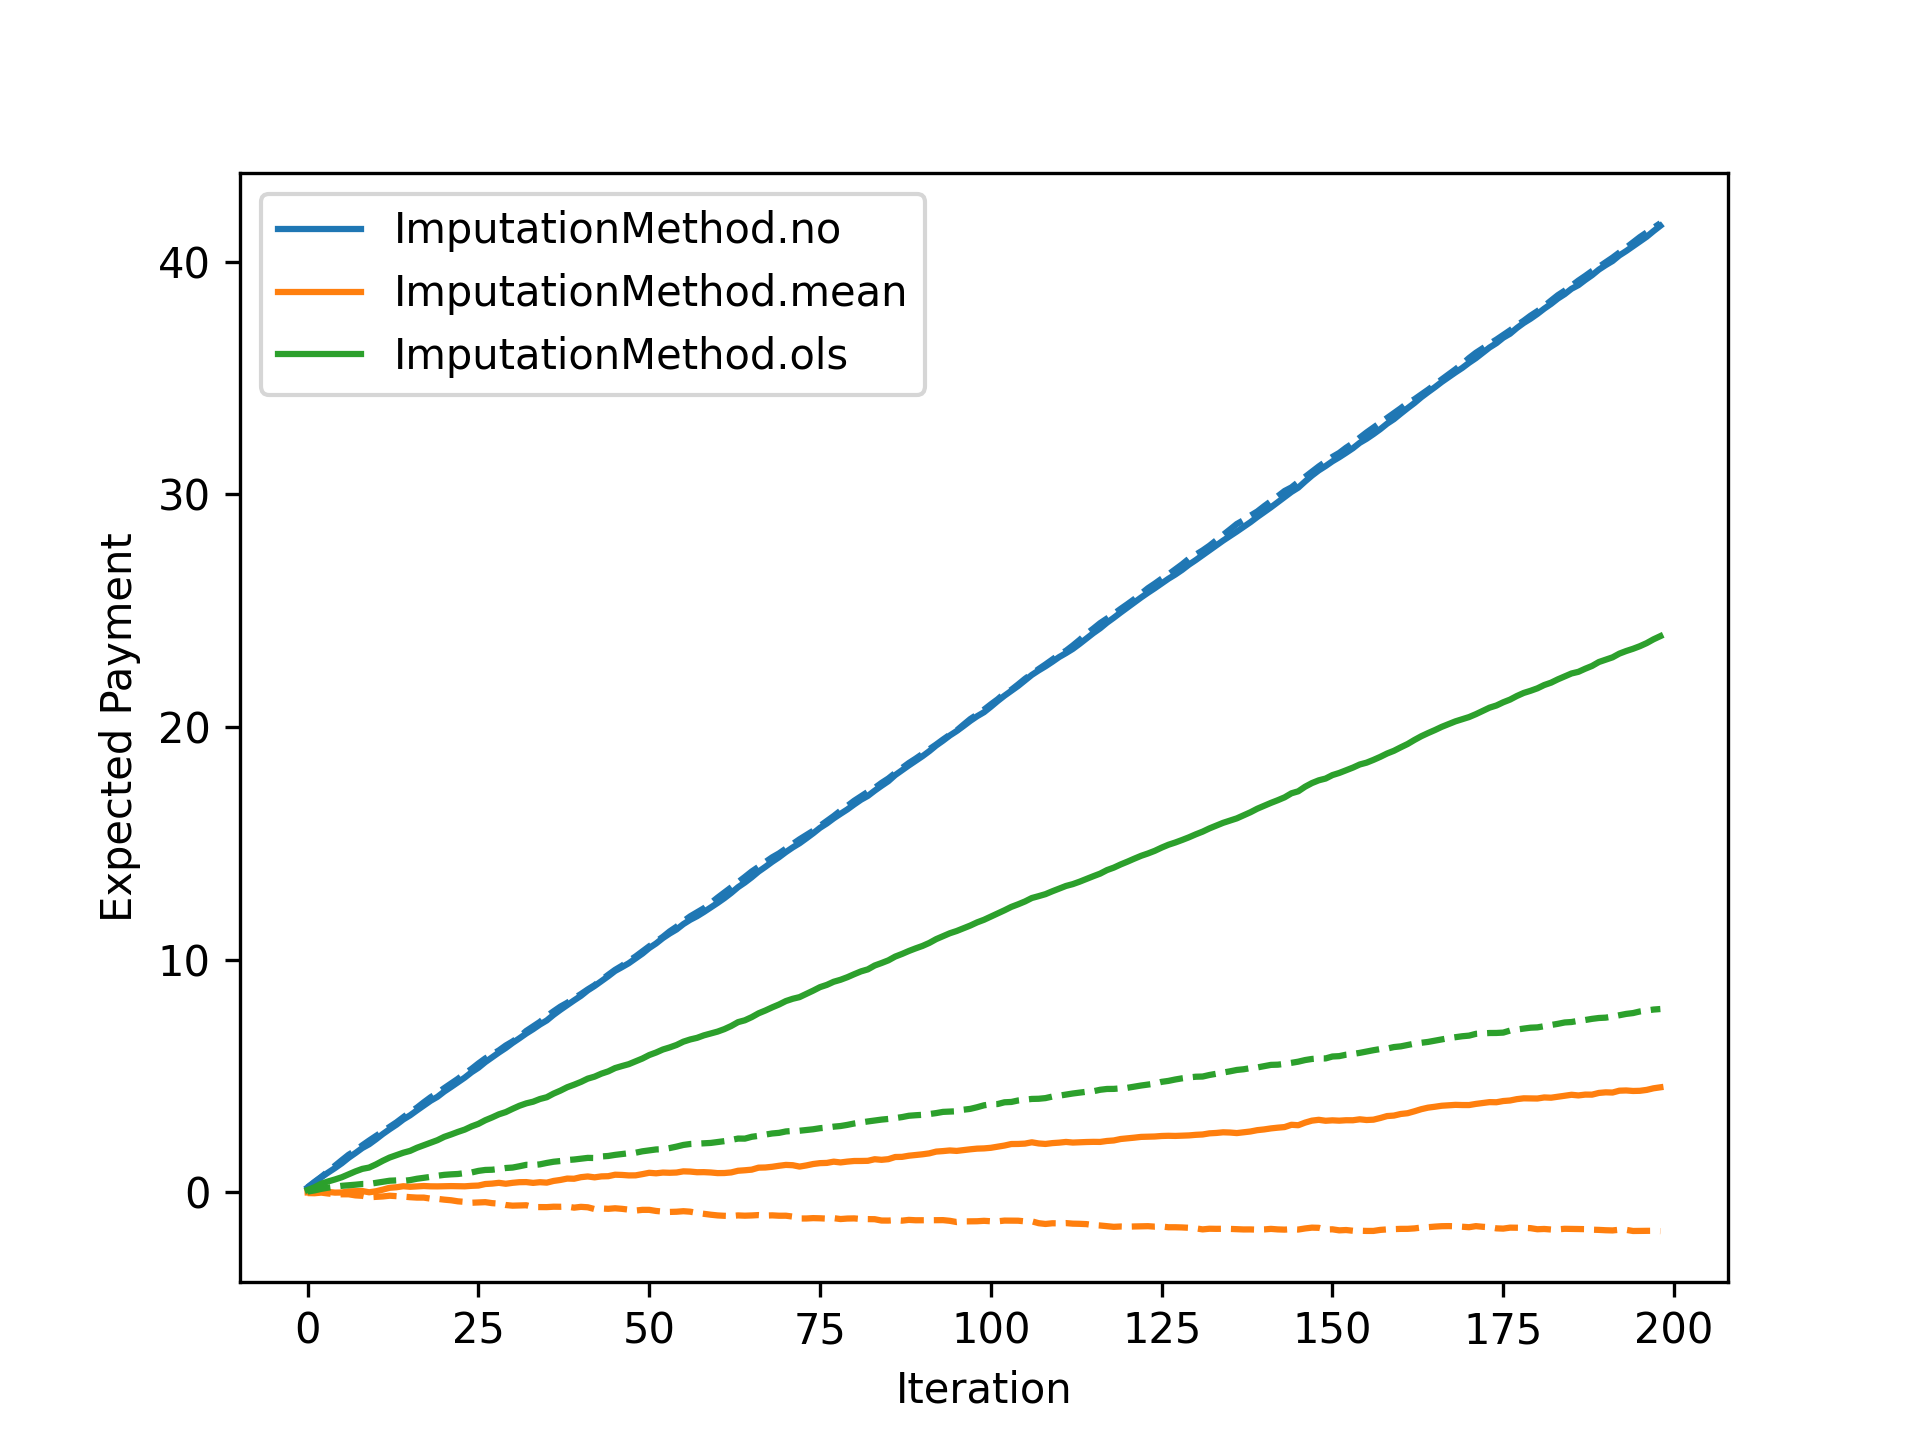
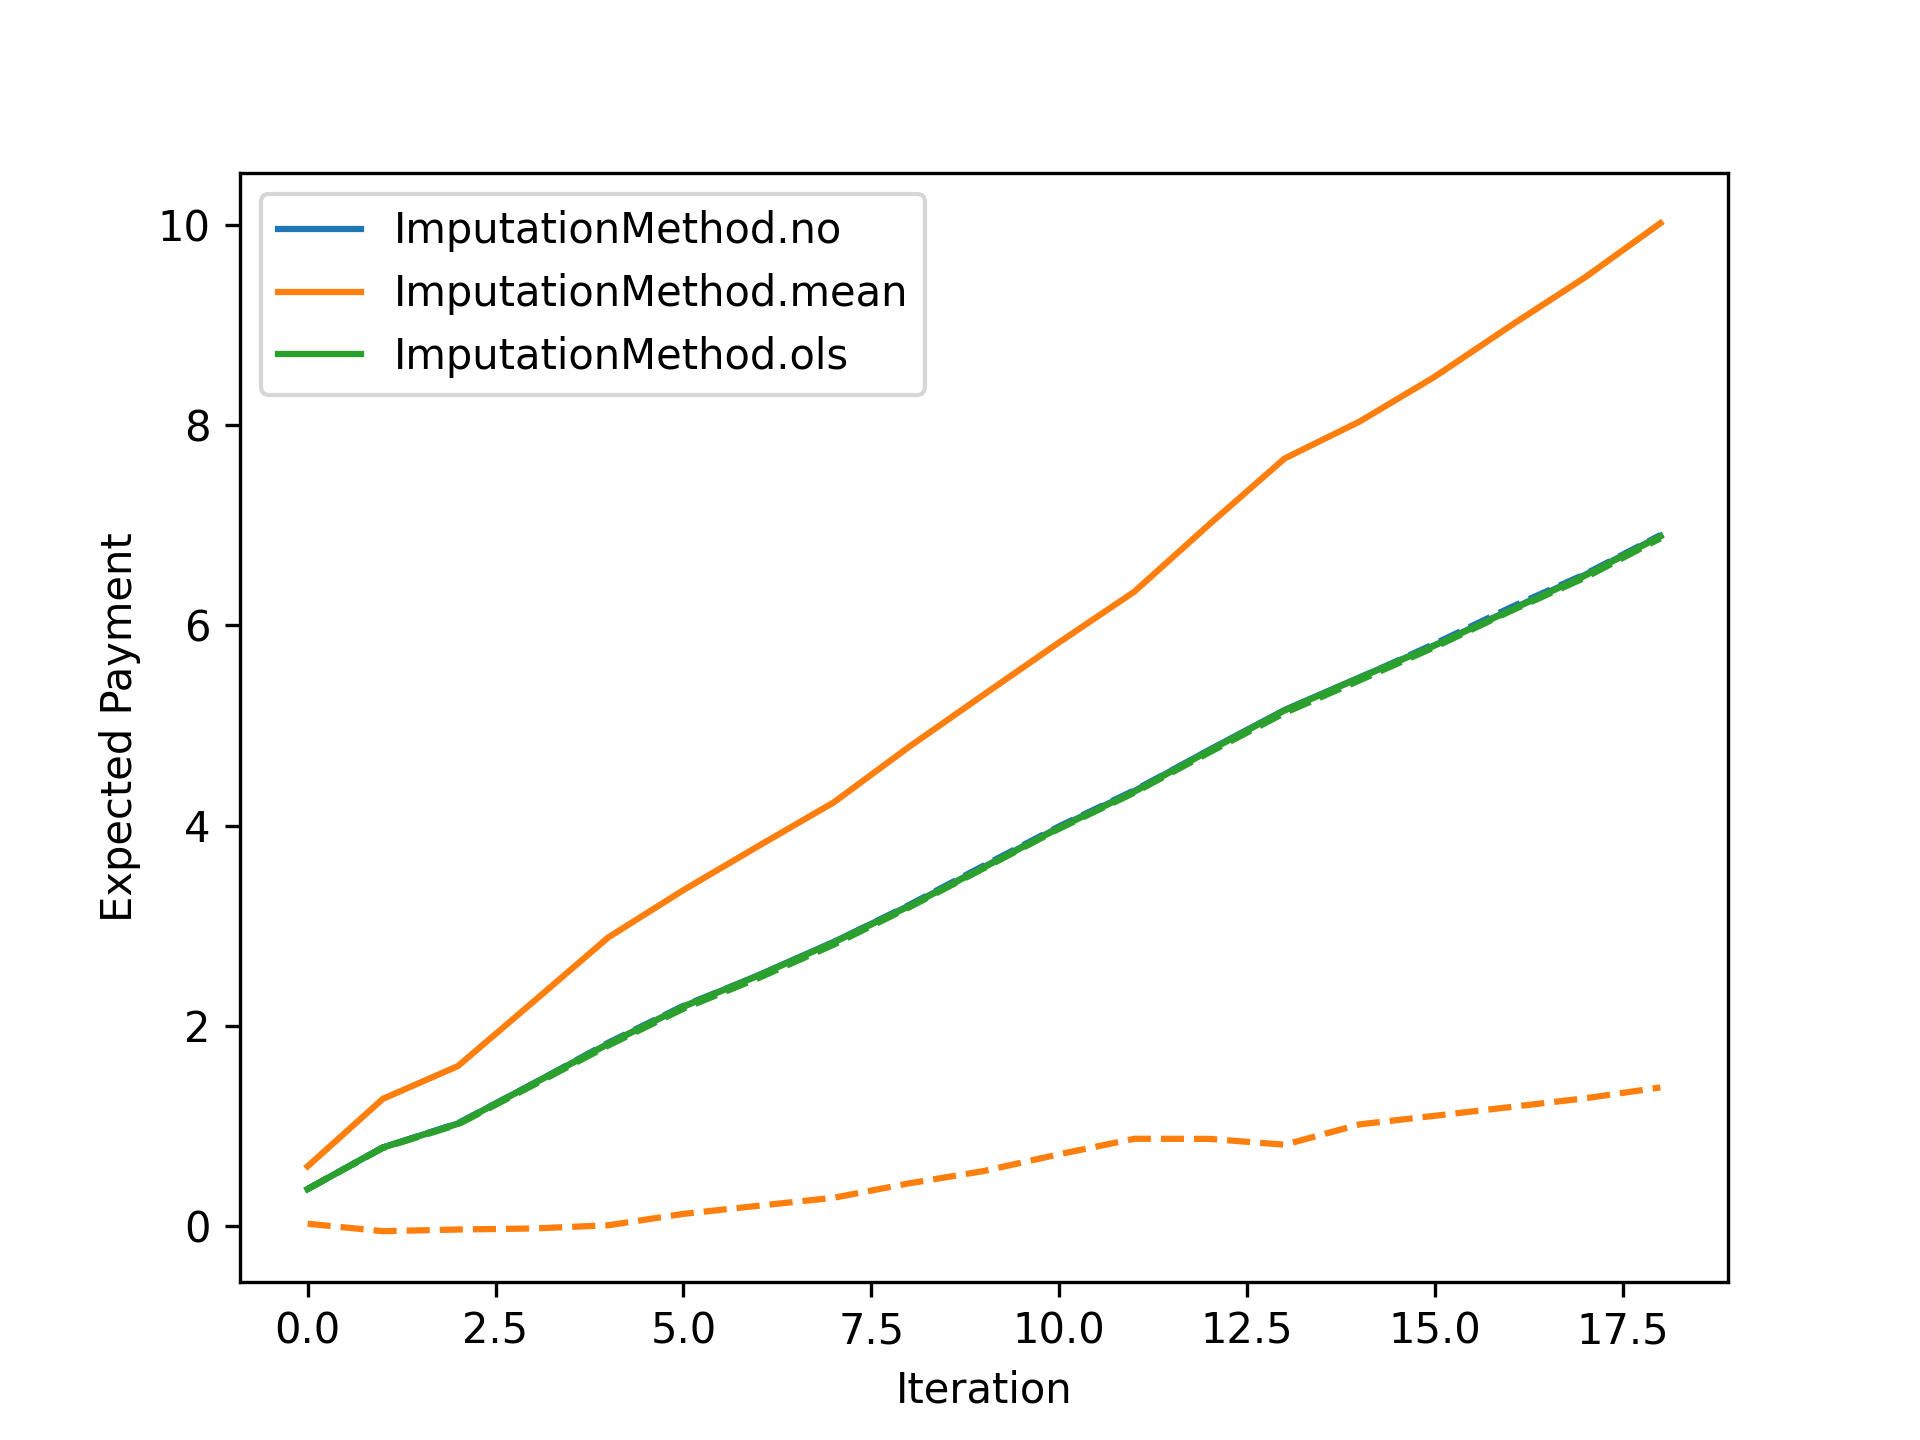
Fix bug in GPR implementation

diff --git a/market/task.py b/market/task.py
@@ -10,6 +10,7 @@ from sklearn.gaussian_process.kernels import WhiteKernel, DotProduct
 from sklearn.exceptions import ConvergenceWarning
 
 
+## TODO: Remove requirement to pass both X and indices when calling fit and predict.
 class Task:
     def __init__(self):
         self._noise_variances = {}
@@ -163,6 +164,7 @@ class BayesianLinearRegression(WeightSpaceTask):
 class GaussianProcessLinearRegression(Task):
     def __init__(self):
         super().__init__()
+        self._observations = {}
 
     def _amplitude(self, X: np.ndarray):
         return np.eye(X.shape[1]) / 1e-5
@@ -177,7 +179,6 @@ class GaussianProcessLinearRegression(Task):
         indices: Sequence,
         n_restarts_optimizer: int = 0,
     ):
-        self.X_train, self.y_train = X, y
         kernel = DotProduct(sigma_0_bounds=(1e-10, 1e-9)) + WhiteKernel()
         gp = GaussianProcessRegressor(
             kernel=kernel, n_restarts_optimizer=n_restarts_optimizer
@@ -185,24 +186,29 @@ class GaussianProcessLinearRegression(Task):
         with warnings.catch_warnings():
             # Ignore bounds warning for regularization parameter
             warnings.filterwarnings("ignore", category=ConvergenceWarning)
-            gp.fit(self.X_train, self.y_train)
+            gp.fit(X[:, indices], y)
         noise_variance = gp.kernel_.get_params()["k2__noise_level"]
         self.set_posterior_noise_variance(indices, noise_variance)
+        self._observations[tuple(indices)] = (X[:, indices], y)
 
     def _input_noise_free_posterior(
-        self, query_mean: np.ndarray, noise_variance: float
+        self,
+        X_train: np.ndarray,
+        y_train: np.ndarray,
+        query_mean: np.ndarray,
+        noise_variance: float,
     ) -> Tuple[np.ndarray, np.ndarray]:
         # Kernel of observations
-        kernel_train = self._kernel_fn(self.X_train, self.X_train)
-        kernel_train += noise_variance * np.eye(len(self.X_train))
+        kernel_train = self._kernel_fn(X_train, X_train)
+        kernel_train += noise_variance * np.eye(len(X_train))
         # Kernel of observations vs. query points
-        kernel_train_test = self._kernel_fn(self.X_train, query_mean)
+        kernel_train_test = self._kernel_fn(X_train, query_mean)
         # Kernel of query points
         kernel_test = self._kernel_fn(query_mean, query_mean)
         kernel_test += noise_variance * np.eye(len(query_mean))
         # Compute posterior
         solved = (np.linalg.inv(kernel_train) @ kernel_train_test).T
-        mean = solved @ self.y_train
+        mean = solved @ y_train
         covariance = kernel_test - solved @ kernel_train_test
         # For now we are only interested in the diagonal
         sdev = np.sqrt(covariance.diagonal().reshape(-1, 1))
@@ -228,38 +234,43 @@ class GaussianProcessLinearRegression(Task):
             Tuple[np.ndarray, np.ndarray]: mean and standard deviation of Gaussian posterior
                 predictive distribution.
         """
+        X_train, y_train = self._observations[tuple(indices)]
         noise_variance = self.get_posterior_noise_variance(indices)
-        mean, sdev = self._input_noise_free_posterior(X, noise_variance)
+        mean, sdev = self._input_noise_free_posterior(
+            X_train, y_train, X, noise_variance
+        )
+        ## TODO: Break out this job from this function.
+        X_covariance = X_covariance[:, indices][indices, :].copy()
         if X_covariance is None or np.count_nonzero(X_covariance) == 0:
             # If no covariance is provided, the noise-free posterior is returned
             # to avoid unecessary computations (i.e., we would get the same result
             # assuming the covariance was a zero matrix)
             return mean, sdev
 
-        num_features = self.X_train.shape[1]
+        num_features = X_train.shape[1]
         X_covariance = (
             np.atleast_3d(X_covariance).reshape(-1, num_features, num_features).copy()
         )
 
         # Kernel of the observations
-        kernel_train = self._kernel_fn(self.X_train, self.X_train)
-        kernel_train += noise_variance * np.eye(len(self.X_train))
+        kernel_train = self._kernel_fn(X_train, X_train)
+        kernel_train += noise_variance * np.eye(len(X_train))
         kernel_train_inv = np.linalg.inv(kernel_train)
         # Extract the weights applied to the kernel of the query points when computing
         # the posterior predictive mean
-        weights = kernel_train_inv @ self.y_train
+        weights = kernel_train_inv @ y_train
         # We can decompose the variance into that given by the noise-free posterior
         variance = np.square(sdev)
         # With additional correction terms
         variance += np.trace(
-            self._amplitude(self.X_train) @ X_covariance, axis1=1, axis2=2
+            self._amplitude(X_train) @ X_covariance, axis1=1, axis2=2
         ).reshape(-1, 1)
         variance -= np.trace(
-            self._amplitude(self.X_train)
-            @ self.X_train.T
+            self._amplitude(X_train)
+            @ X_train.T
             @ (kernel_train_inv - np.outer(weights, weights))
-            @ self.X_train
-            @ self._amplitude(self.X_train)
+            @ X_train
+            @ self._amplitude(X_train)
             @ X_covariance,
             axis1=1,
             axis2=2,

diff --git a/analytics/sim13-parallel.py b/analytics/sim13-parallel.py
@@ -21,17 +21,17 @@ if __name__ == "__main__":
     savedir = Path(__file__).parent / "docs/sim13-capricious-data-streams"
     os.makedirs(savedir, exist_ok=True)
 
-    sample_size = 5000
+    sample_size = 500
     test_frac = 0.04
     test_idx = int(sample_size * (1 - test_frac))
-    noise_variance = 0.5
-    num_samples = 500
+    noise_variance = 1
+    num_samples = 100
     regularization = 1e-5
-    coeffs = np.array([0, 0.9, 0.9, -0.9])
+    coeffs = np.array([0, 0.9, 0.9, 0.9])
     num_feats = len(coeffs)
     payment = 1
 
-    missing_probs = np.array([0, 0, 0, 0.5])
+    missing_probs = np.array([0, 0, 0, 0.3])
 
     methods = [
         ImputationMethod.no,
@@ -42,7 +42,7 @@ if __name__ == "__main__":
     ]
 
     def _run_experiment():
-        rho = 0.6
+        rho = 0.999
         X = np.random.multivariate_normal(
             [0, 0, 0], [[1, 0, 0], [0, 1, rho], [0, rho, 1]], size=sample_size
         )

diff --git a/market/policy.py b/market/policy.py
@@ -22,9 +22,7 @@ class ShapleyAttributionPolicy:
 
     def _value(self, X: np.ndarray, y: np.ndarray, indices: Sequence, **kwargs) -> Dict:
         indices = list(indices)
-        return self.regression_task.calculate_loss(
-            X[:, indices], y, list(indices), **kwargs
-        )
+        return self.regression_task.calculate_loss(X[:, indices], y, indices, **kwargs)
 
     def _marginal_contribution(
         self, X: np.ndarray, y: np.ndarray, excl: Set, incl: Set, **kwargs
